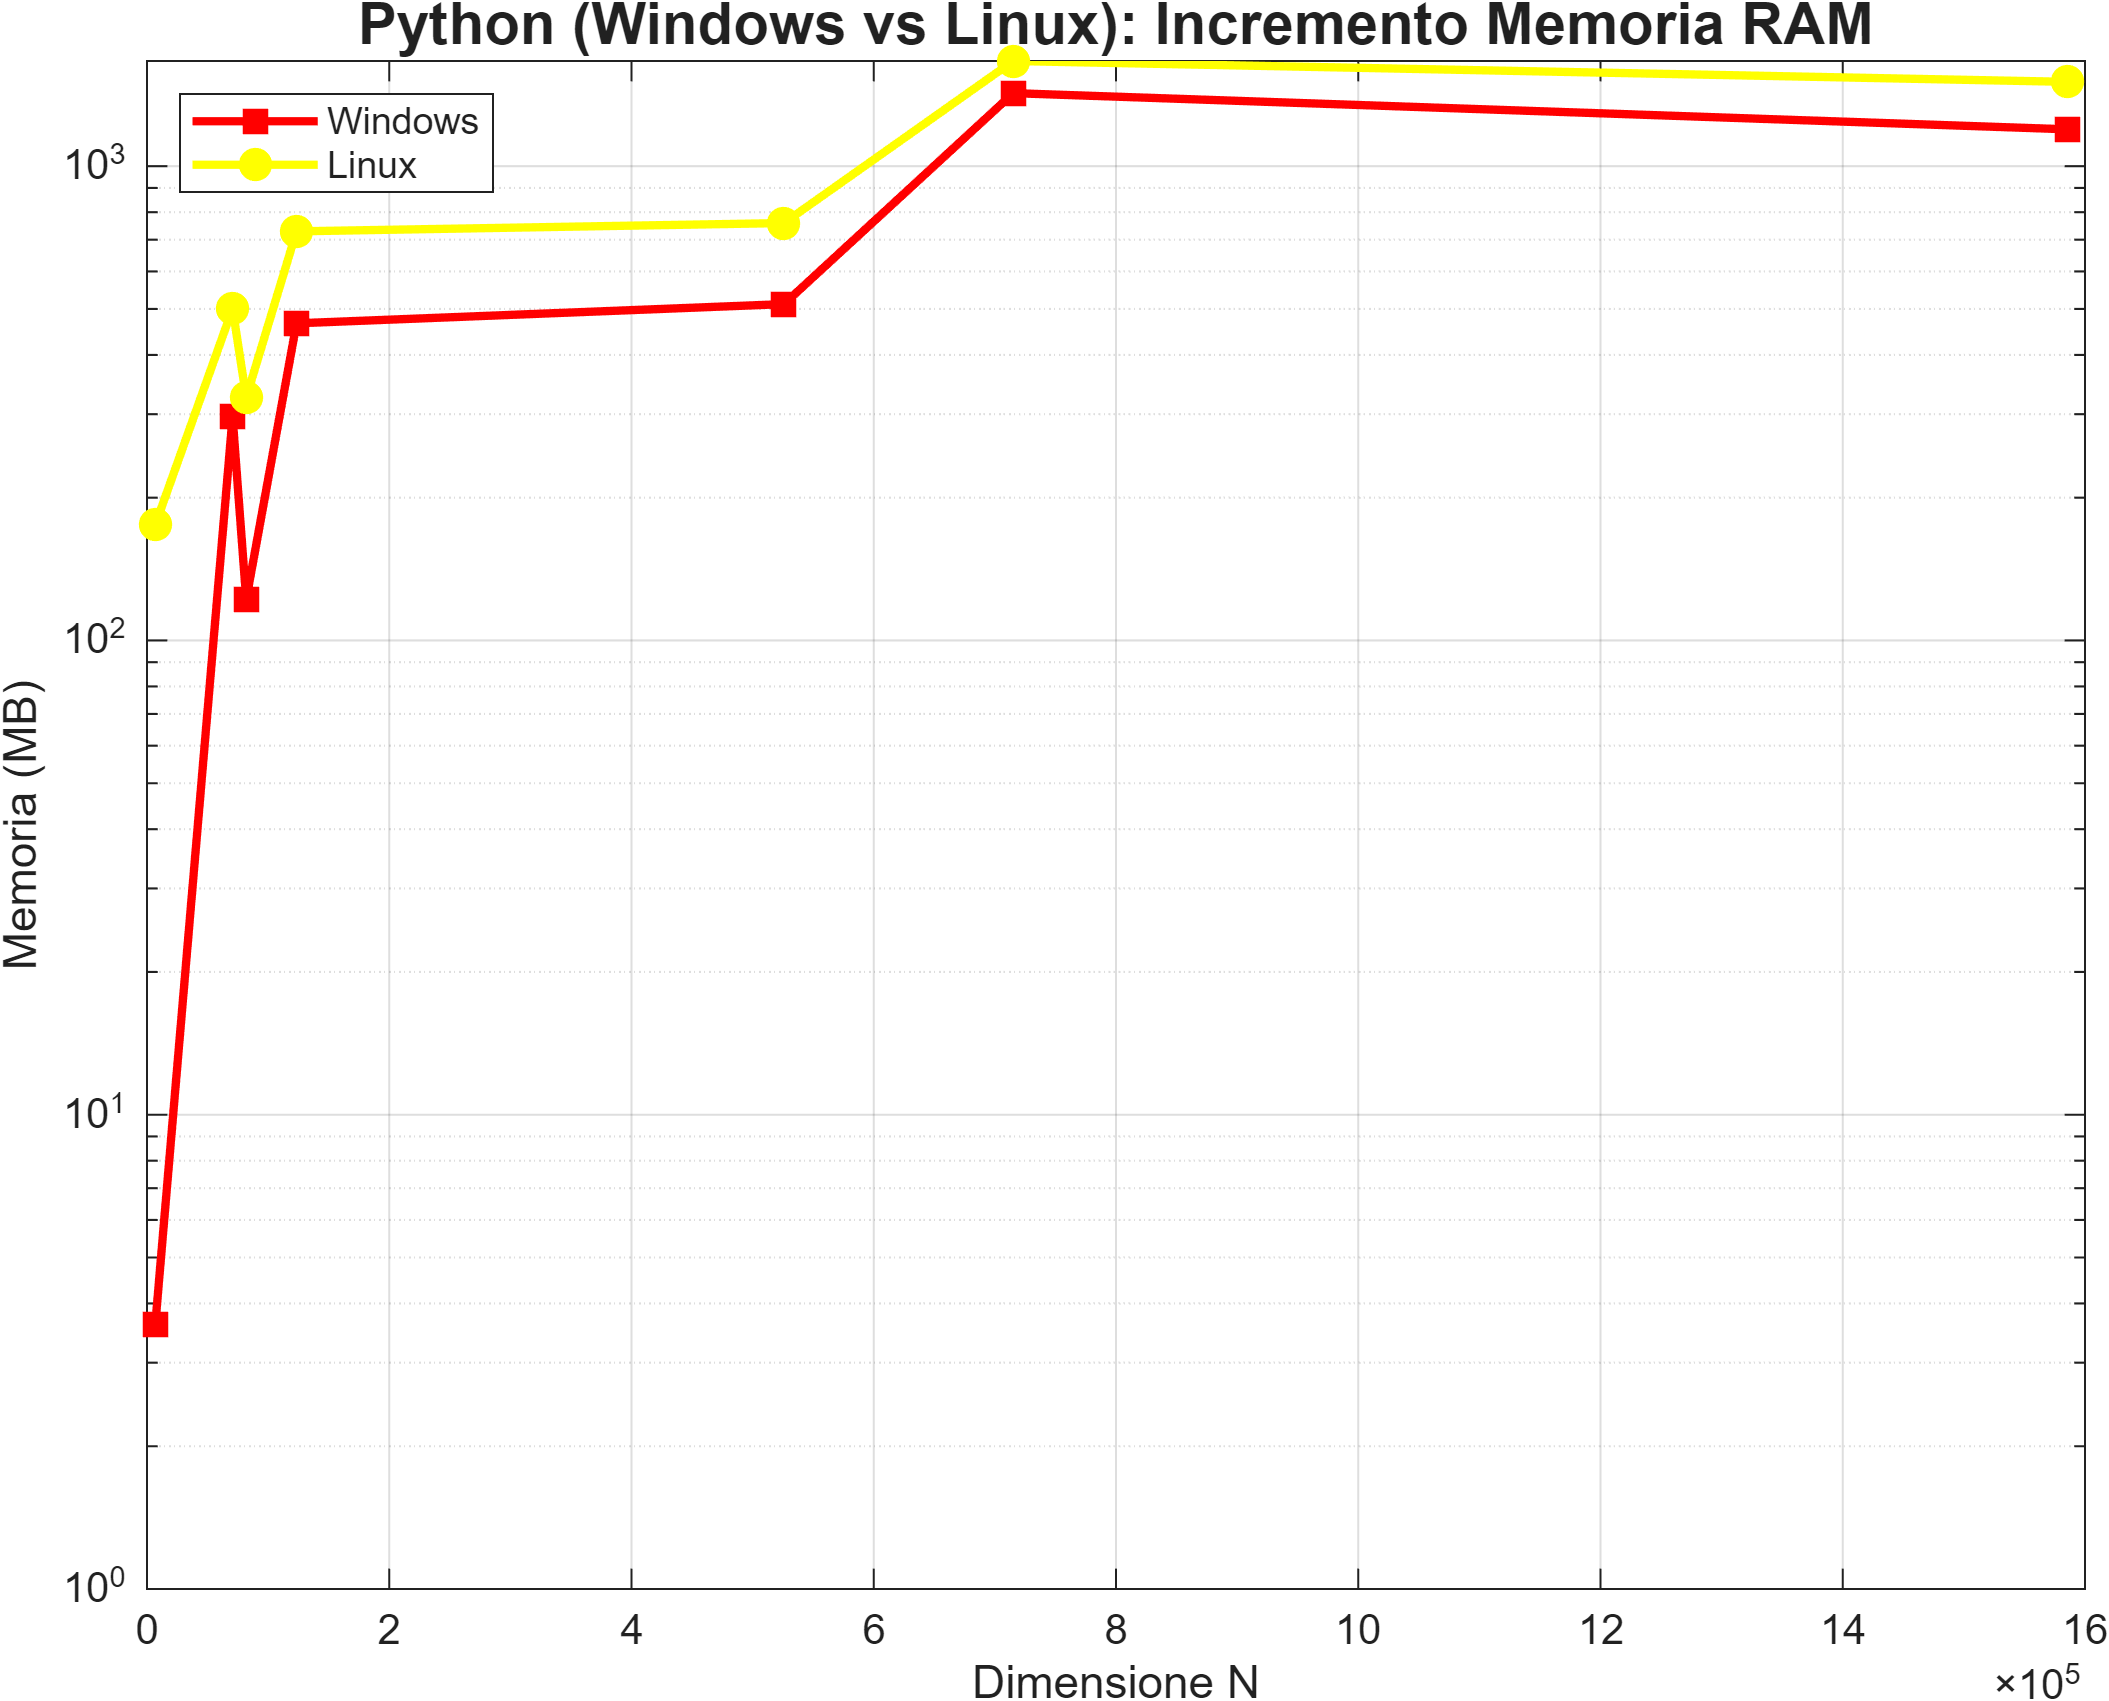
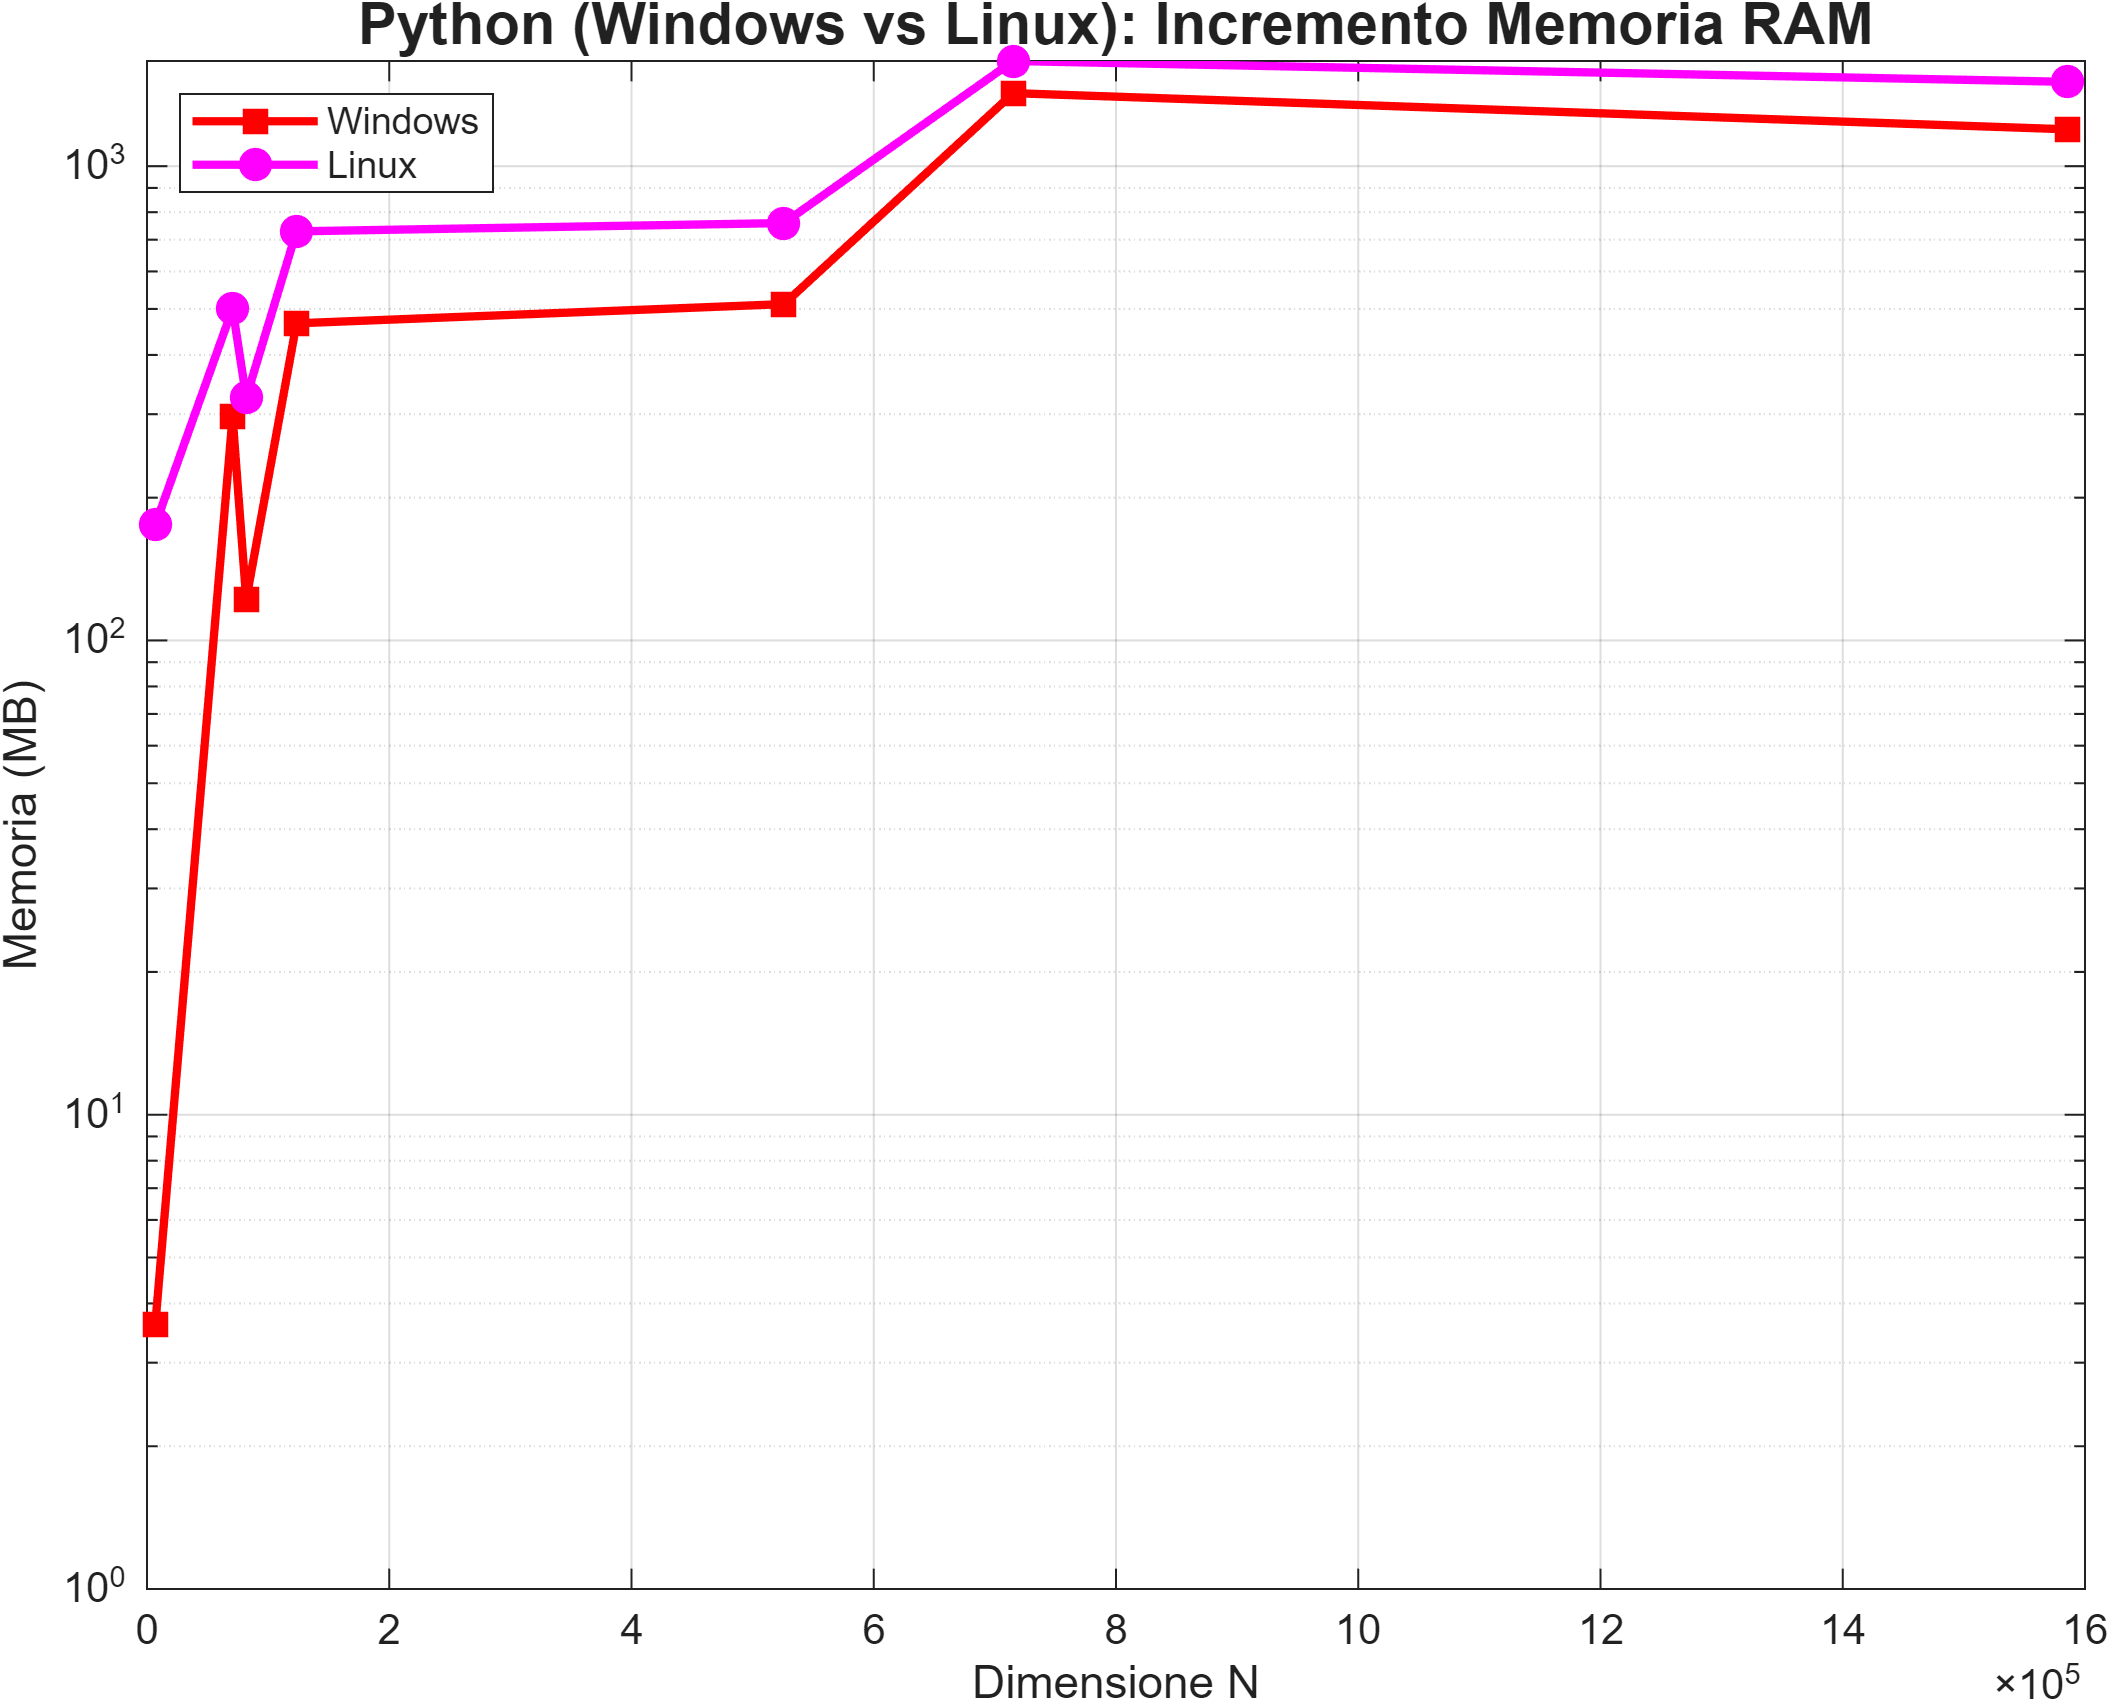
Replaced yellow with magenta

diff --git a/results/Benchmark.m b/results/Benchmark.m
@@ -48,7 +48,7 @@ mem_pl = tab_pl.Memoria_MB_;
 st_mw = '-sb'; % MATLAB Windows: Linea blu, quadrati
 st_ml = '-og'; % MATLAB Linux: Linea verde, cerchi
 st_pw = '-sr'; % Python Windows: Linea rossa, quadrati
-st_pl = '-oy'; % Python Linux: Linea gialla, cerchi
+st_pl = '-om'; % Python Linux: Linea gialla, cerchi
 
 dim_figura = [100, 100, 800, 600]; % Finestra larga singola
 
@@ -119,19 +119,19 @@ exportgraphics(gcf, 'matlab_linux_memoria.png', 'Resolution', 300);
 %% SCENARIO 4: PYTHON - Linux
 % =========================================================================
 figure('Name', 'Python Linux - Tempo', 'Position', dim_figura);
-semilogy(N_pl, t_pl, st_pl, 'LineWidth', 2, 'MarkerFaceColor', 'y');
+semilogy(N_pl, t_pl, st_pl, 'LineWidth', 2, 'MarkerFaceColor', 'm');
 title('Python (Linux): Tempo di Risoluzione', 'FontWeight', 'bold', 'FontSize', 14);
 xlabel('Dimensione matrice (N)'); ylabel('Tempo (secondi)'); grid on;
 exportgraphics(gcf, 'python_linux_tempo.png', 'Resolution', 300);
 
 figure('Name', 'Python Linux - Errore', 'Position', dim_figura);
-semilogy(N_pl, err_pl, st_pl, 'LineWidth', 2, 'MarkerFaceColor', 'y');
+semilogy(N_pl, err_pl, st_pl, 'LineWidth', 2, 'MarkerFaceColor', 'm');
 title('Python (Linux): Errore Relativo', 'FontWeight', 'bold', 'FontSize', 14);
 xlabel('Dimensione matrice (N)'); ylabel('Errore relativo'); grid on;
 exportgraphics(gcf, 'python_linux_errore.png', 'Resolution', 300);
 
 figure('Name', 'Python Linux - Memoria', 'Position', dim_figura);
-semilogy(N_pl, mem_pl, st_pl, 'LineWidth', 2, 'MarkerFaceColor', 'y');
+semilogy(N_pl, mem_pl, st_pl, 'LineWidth', 2, 'MarkerFaceColor', 'm');
 title('Python (Linux): Incremento di Memoria RAM', 'FontWeight', 'bold', 'FontSize', 14);
 xlabel('Dimensione matrice (N)'); ylabel('Memoria (MB)'); grid on;
 exportgraphics(gcf, 'python_linux_memoria.png', 'Resolution', 300);
@@ -168,7 +168,7 @@ exportgraphics(gcf, 'confronto_matlab_win_lin_memoria.png', 'Resolution', 300);
 % =========================================================================
 figure('Name', 'Python Win vs Lin - Tempo', 'Position', dim_figura);
 semilogy(N_pw, t_pw, st_pw, 'LineWidth', 2, 'MarkerFaceColor', 'r'); hold on;
-semilogy(N_pl, t_pl, st_pl, 'LineWidth', 2, 'MarkerFaceColor', 'y');
+semilogy(N_pl, t_pl, st_pl, 'LineWidth', 2, 'MarkerFaceColor', 'm');
 title('Python (Windows vs Linux): Tempo di Risoluzione', 'FontWeight', 'bold', 'FontSize', 14);
 xlabel('Dimensione N'); ylabel('Tempo (s)'); grid on;
 legend('Windows', 'Linux', 'Location', 'northwest');
@@ -176,7 +176,7 @@ exportgraphics(gcf, 'confronto_python_win_lin_tempo.png', 'Resolution', 300);
 
 figure('Name', 'Python Win vs Lin - Errore', 'Position', dim_figura);
 semilogy(N_pw, err_pw, st_pw, 'LineWidth', 2, 'MarkerFaceColor', 'r'); hold on;
-semilogy(N_pl, err_pl, st_pl, 'LineWidth', 2, 'MarkerFaceColor', 'y');
+semilogy(N_pl, err_pl, st_pl, 'LineWidth', 2, 'MarkerFaceColor', 'm');
 title('Python (Windows vs Linux): Errore Relativo', 'FontWeight', 'bold', 'FontSize', 14);
 xlabel('Dimensione N'); ylabel('Errore'); grid on;
 legend('Windows', 'Linux', 'Location', 'best');
@@ -184,7 +184,7 @@ exportgraphics(gcf, 'confronto_python_win_lin_errore.png', 'Resolution', 300);
 
 figure('Name', 'Python Win vs Lin - Memoria', 'Position', dim_figura);
 semilogy(N_pw, mem_pw, st_pw, 'LineWidth', 2, 'MarkerFaceColor', 'r'); hold on;
-semilogy(N_pl, mem_pl, st_pl, 'LineWidth', 2, 'MarkerFaceColor', 'y');
+semilogy(N_pl, mem_pl, st_pl, 'LineWidth', 2, 'MarkerFaceColor', 'm');
 title('Python (Windows vs Linux): Incremento Memoria RAM', 'FontWeight', 'bold', 'FontSize', 14);
 xlabel('Dimensione N'); ylabel('Memoria (MB)'); grid on;
 legend('Windows', 'Linux', 'Location', 'northwest');
@@ -195,7 +195,7 @@ exportgraphics(gcf, 'confronto_python_win_lin_memoria.png', 'Resolution', 300);
 % =========================================================================
 figure('Name', 'Linux MATLAB vs Python - Tempo', 'Position', dim_figura);
 semilogy(N_ml, t_ml, st_ml, 'LineWidth', 2, 'MarkerFaceColor', 'g'); hold on;
-semilogy(N_pl, t_pl, st_pl, 'LineWidth', 2, 'MarkerFaceColor', 'y');
+semilogy(N_pl, t_pl, st_pl, 'LineWidth', 2, 'MarkerFaceColor', 'm');
 title('Ambiente Linux (MATLAB vs Python): Tempo di Risoluzione', 'FontWeight', 'bold', 'FontSize', 14);
 xlabel('Dimensione N'); ylabel('Tempo (s)'); grid on;
 legend('MATLAB', 'Python', 'Location', 'northwest');
@@ -203,7 +203,7 @@ exportgraphics(gcf, 'confronto_linux_mat_py_tempo.png', 'Resolution', 300);
 
 figure('Name', 'Linux MATLAB vs Python - Errore', 'Position', dim_figura);
 semilogy(N_ml, err_ml, st_ml, 'LineWidth', 2, 'MarkerFaceColor', 'g'); hold on;
-semilogy(N_pl, err_pl, st_pl, 'LineWidth', 2, 'MarkerFaceColor', 'y');
+semilogy(N_pl, err_pl, st_pl, 'LineWidth', 2, 'MarkerFaceColor', 'm');
 title('Ambiente Linux (MATLAB vs Python): Errore Relativo', 'FontWeight', 'bold', 'FontSize', 14);
 xlabel('Dimensione N'); ylabel('Errore'); grid on;
 legend('MATLAB', 'Python', 'Location', 'best');
@@ -211,7 +211,7 @@ exportgraphics(gcf, 'confronto_linux_mat_py_errore.png', 'Resolution', 300);
 
 figure('Name', 'Linux MATLAB vs Python - Memoria', 'Position', dim_figura);
 semilogy(N_ml, mem_ml, st_ml, 'LineWidth', 2, 'MarkerFaceColor', 'g'); hold on;
-semilogy(N_pl, mem_pl, st_pl, 'LineWidth', 2, 'MarkerFaceColor', 'y');
+semilogy(N_pl, mem_pl, st_pl, 'LineWidth', 2, 'MarkerFaceColor', 'm');
 title('Ambiente Linux (MATLAB vs Python): Incremento Memoria RAM', 'FontWeight', 'bold', 'FontSize', 14);
 xlabel('Dimensione N'); ylabel('Memoria (MB)'); grid on;
 legend('MATLAB', 'Python', 'Location', 'northwest');
